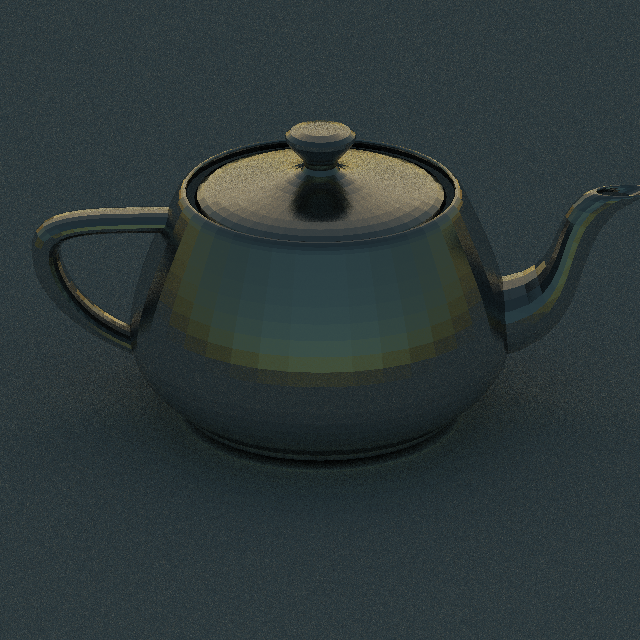
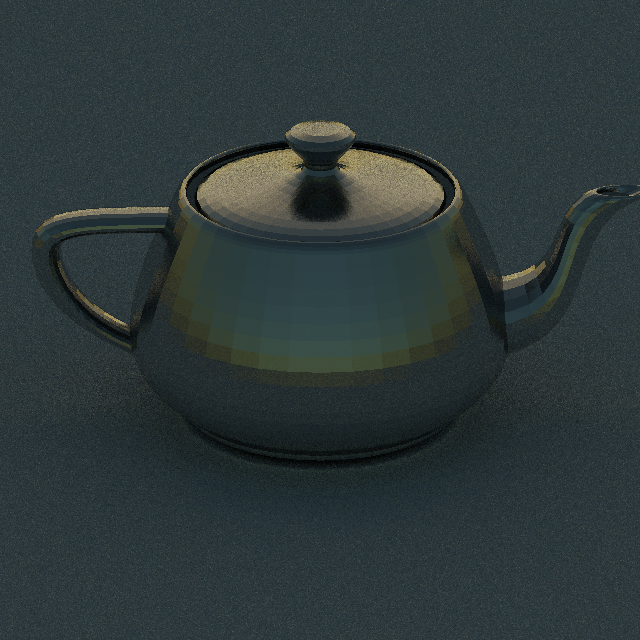
Stub out smooth triangle

Changed region(s): [[0.5312, 0.2188, 0.6875, 0.3125], [0.3125, 0.2188, 0.4688, 0.3125], [0.4688, 0.1875, 0.5312, 0.2188]]

diff --git a/src/shapes/triangle.rs b/src/shapes/triangle.rs
@@ -55,11 +55,14 @@ impl Triangle {
 
 const SMALL: f64 = 0.0000001;
 
-impl Geometry for Triangle {
-    fn intersects(&self, r: &Ray) -> Option<RawIntersection> {
+struct IntersectionPoint {
+    dist: f64, 
+    point: Vector3<f64>,
+}
 
-        let v0v1 = self.v1 - self.v0; 
-        let v0v2 = self.v2 - self.v0; 
+fn intersects_dist(v0: Vector3<f64>, v1: Vector3<f64>, v2: Vector3<f64>, r: &Ray) -> Option<IntersectionPoint> {
+        let v0v1 = v1 - v0; 
+        let v0v2 = v2 - v0; 
         let pvec = r.rd.cross(&v0v2); 
         panic_if_nan(pvec);
         let det = v0v1.dot(&pvec); 
@@ -68,7 +71,7 @@ impl Geometry for Triangle {
         if det.abs() < SMALL { return None }; 
 
         let inv_det = 1. / det; 
-        let tvec = r.ro - self.v0; 
+        let tvec = r.ro - v0; 
         let u = tvec.dot(&pvec) * inv_det; 
 
         if u < 0. || u > 1. { return None }; 
@@ -83,15 +86,88 @@ impl Geometry for Triangle {
                      
         if dist > 0. {
             let point = r.ro + (r.rd.normalize() * dist);
-            return Some(RawIntersection {
-                dist: dist, 
-                point: point,
-                normal: self.normal 
-            })
+            return Some(IntersectionPoint { dist, point })
         }
         return None;
+}
+
+
+impl Geometry for Triangle {
+    fn intersects(&self, r: &Ray) -> Option<RawIntersection> {
+        return match intersects_dist(self.v0, self.v1, self.v2, r) {
+            Some(x) => Some(RawIntersection {
+                dist: x.dist, 
+                point: x.point,
+                normal: self.normal 
+            }),
+            None => None
+        }
     }
 
+    fn bounds(&self) -> BBox {
+        BBox::new(
+            Vector3::new(
+                self.v0.x.min(self.v1.x).min(self.v2.x),
+                self.v0.y.min(self.v1.y).min(self.v2.y),
+                self.v0.z.min(self.v1.z).min(self.v2.z),
+            ),
+            Vector3::new(
+                self.v0.x.max(self.v1.x).max(self.v2.x),
+                self.v0.y.max(self.v1.y).max(self.v2.y),
+                self.v0.z.max(self.v1.z).max(self.v2.z),
+            )
+        )
+    }
+}
+
+#[derive(Clone, Debug)]
+pub struct SmoothTriangle {
+    pub v0: Vector3<f64>,
+    pub v1: Vector3<f64>,
+    pub v2: Vector3<f64>,
+    pub normalv0: Vector3<f64>,
+    pub normalv1: Vector3<f64>,
+    pub normalv2: Vector3<f64>,
+}
+
+
+impl SmoothTriangle {
+    pub fn new(
+        v0: Vector3<f64>,
+        v1: Vector3<f64>,
+        v2: Vector3<f64>,
+        normalv0: Vector3<f64>,
+        normalv1: Vector3<f64>,
+        normalv2: Vector3<f64>
+    ) -> SmoothTriangle{
+        return SmoothTriangle { v0, v1, v2, normalv0, normalv1, normalv2 }
+    }
+
+    /*
+    pub fn translate_vec3(&self, v: Vector3<f64>) -> Triangle {
+        return Triangle {
+            v0: self.v0 - v,
+            v1: self.v1 - v,
+            v2: self.v2 - v,
+            normal: self.normal,
+        }
+    }
+    */
+}
+
+impl Geometry for SmoothTriangle {
+    fn intersects(&self, r: &Ray) -> Option<RawIntersection> {
+        return match intersects_dist(self.v0, self.v1, self.v2, r) {
+            Some(x) => Some(RawIntersection {
+                dist: x.dist, 
+                point: x.point,
+                normal: self.normalv1 // TODO 
+            }),
+            None => None
+        }
+    }
+
+    // Copy of Triangle
     fn bounds(&self) -> BBox {
         BBox::new(
             Vector3::new(
